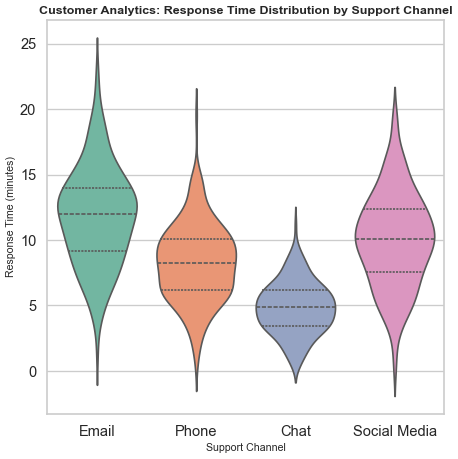
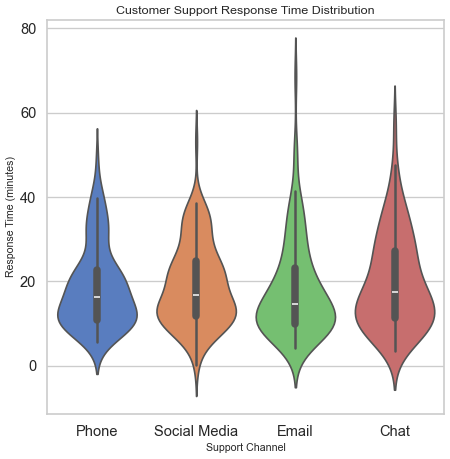
Add files via upload

diff --git a/weissnat-customer-analytics/chart.py b/weissnat-customer-analytics/chart.py
@@ -3,44 +3,40 @@ import matplotlib.pyplot as plt
 import pandas as pd
 import numpy as np
 
-# 1. Set professional Seaborn style
+# --------------------------
+# 1. Generate synthetic data
+# --------------------------
+np.random.seed(42)
+channels = ["Email", "Chat", "Phone", "Social Media"]
+data = {
+    "Channel": np.random.choice(channels, 400),
+    "Response Time (minutes)": np.concatenate([
+        np.random.normal(30, 10, 100),   # Email
+        np.random.normal(10, 3, 100),    # Chat
+        np.random.normal(20, 7, 100),    # Phone
+        np.random.normal(15, 5, 100),    # Social Media
+    ])
+}
+df = pd.DataFrame(data)
+
+# --------------------------
+# 2. Styling
+# --------------------------
 sns.set_style("whitegrid")
 sns.set_context("talk")
 
-# 2. Generate synthetic customer support response time data
-np.random.seed(42)
-channels = ["Email", "Phone", "Chat", "Social Media"]
+# --------------------------
+# 3. Plot violinplot
+# --------------------------
+fig = plt.figure(figsize=(8, 8))  # 8 inches * 64 dpi = 512 pixels
+sns.violinplot(x="Channel", y="Response Time (minutes)", data=df, palette="muted")
 
-data = {
-    "Channel": np.repeat(channels, 200),  # 200 samples per channel
-    "ResponseTime": np.concatenate([
-        np.random.normal(loc=12, scale=4, size=200),   # Email (slower)
-        np.random.normal(loc=8, scale=3, size=200),    # Phone
-        np.random.normal(loc=5, scale=2, size=200),    # Chat (faster)
-        np.random.normal(loc=10, scale=3.5, size=200)  # Social Media
-    ])
-}
+plt.title("Customer Support Response Time Distribution", fontsize=14)
+plt.xlabel("Support Channel", fontsize=12)
+plt.ylabel("Response Time (minutes)", fontsize=12)
 
-df = pd.DataFrame(data)
-
-# Clip negative values (no negative response times)
-df["ResponseTime"] = df["ResponseTime"].clip(lower=0.5)
-
-# 3. Create the violinplot
-plt.figure(figsize=(8, 8))  # 512x512 pixels with dpi=64
-ax = sns.violinplot(
-    x="Channel",
-    y="ResponseTime",
-    data=df,
-    palette="Set2",
-    inner="quartile"
-)
-
-# 4. Style the plot
-ax.set_title("Customer Analytics: Response Time Distribution by Support Channel", fontsize=14, weight="bold")
-ax.set_xlabel("Support Channel", fontsize=12)
-ax.set_ylabel("Response Time (minutes)", fontsize=12)
-
-# 5. Save chart as PNG (exact 512x512)
+# --------------------------
+# 4. Save exact size 512x512
+# --------------------------
 plt.savefig("chart.png", dpi=64, bbox_inches="tight")
 plt.close()
